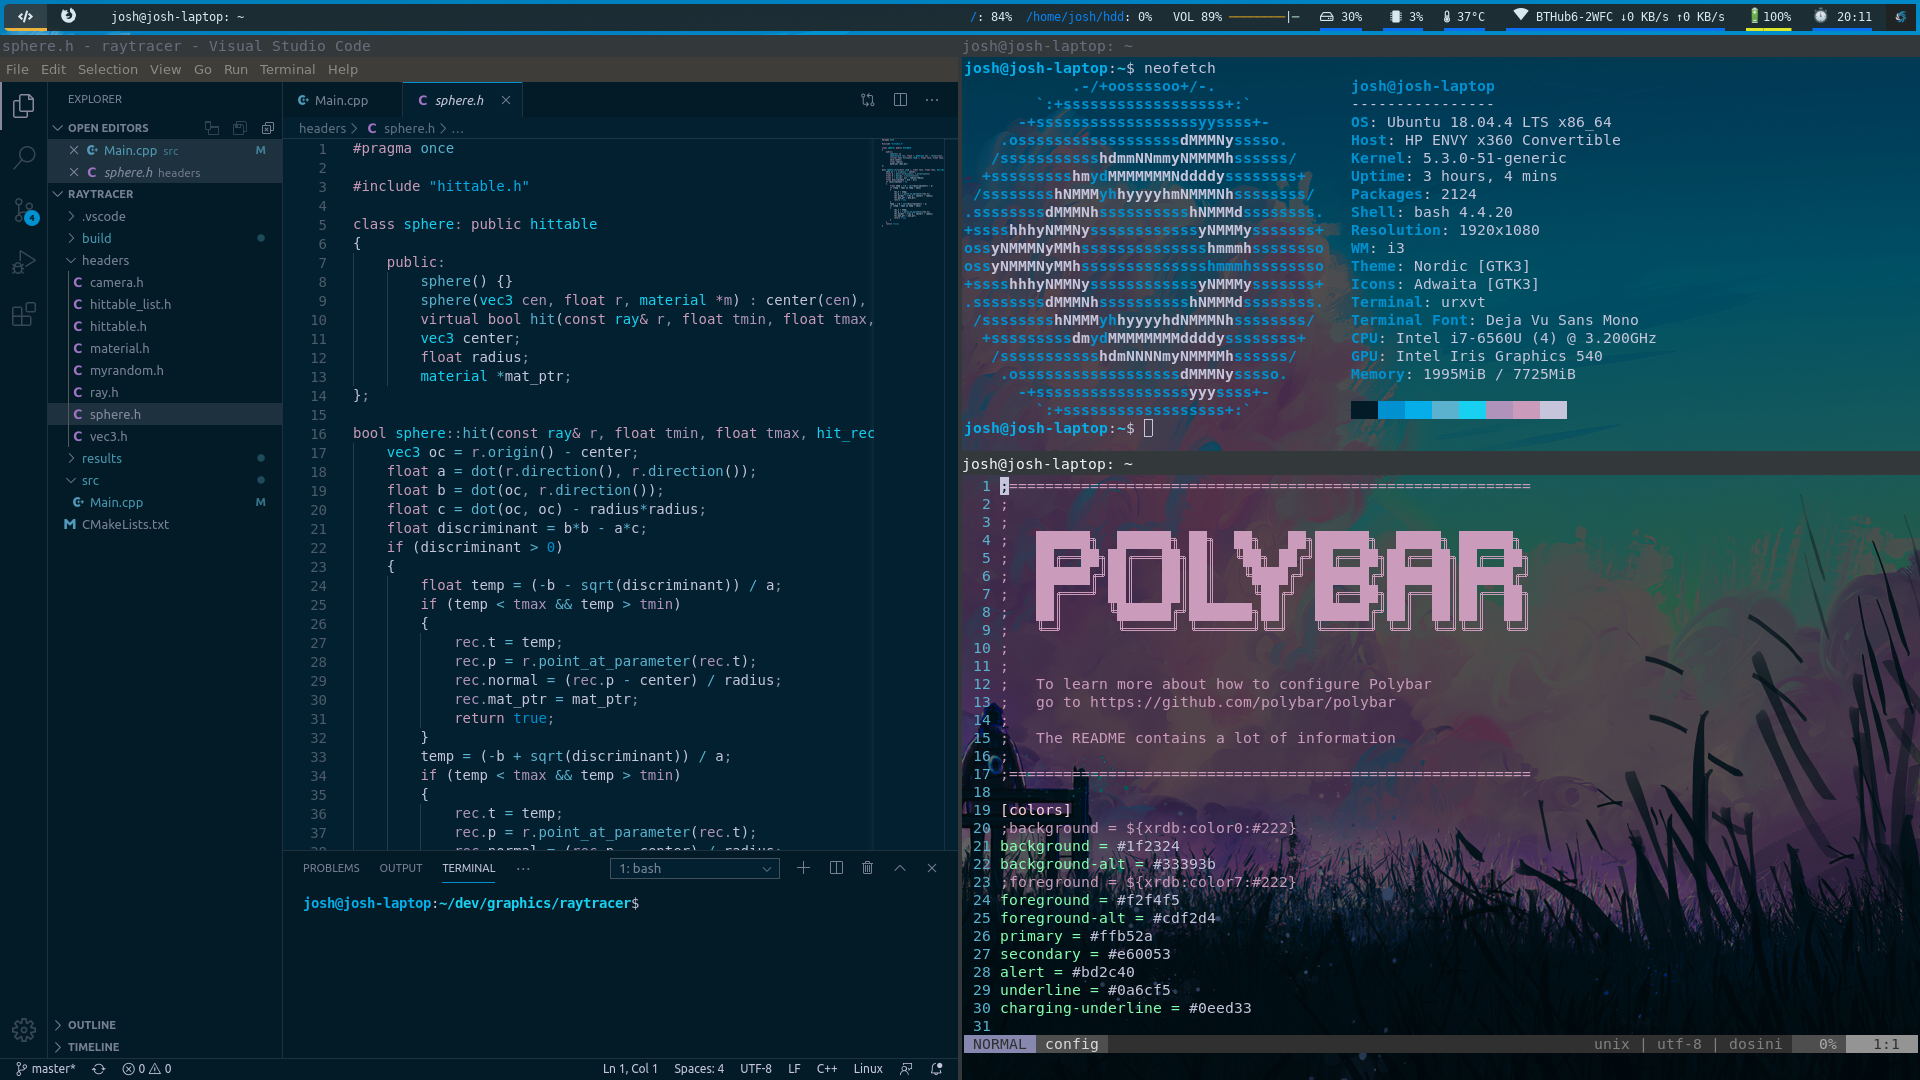
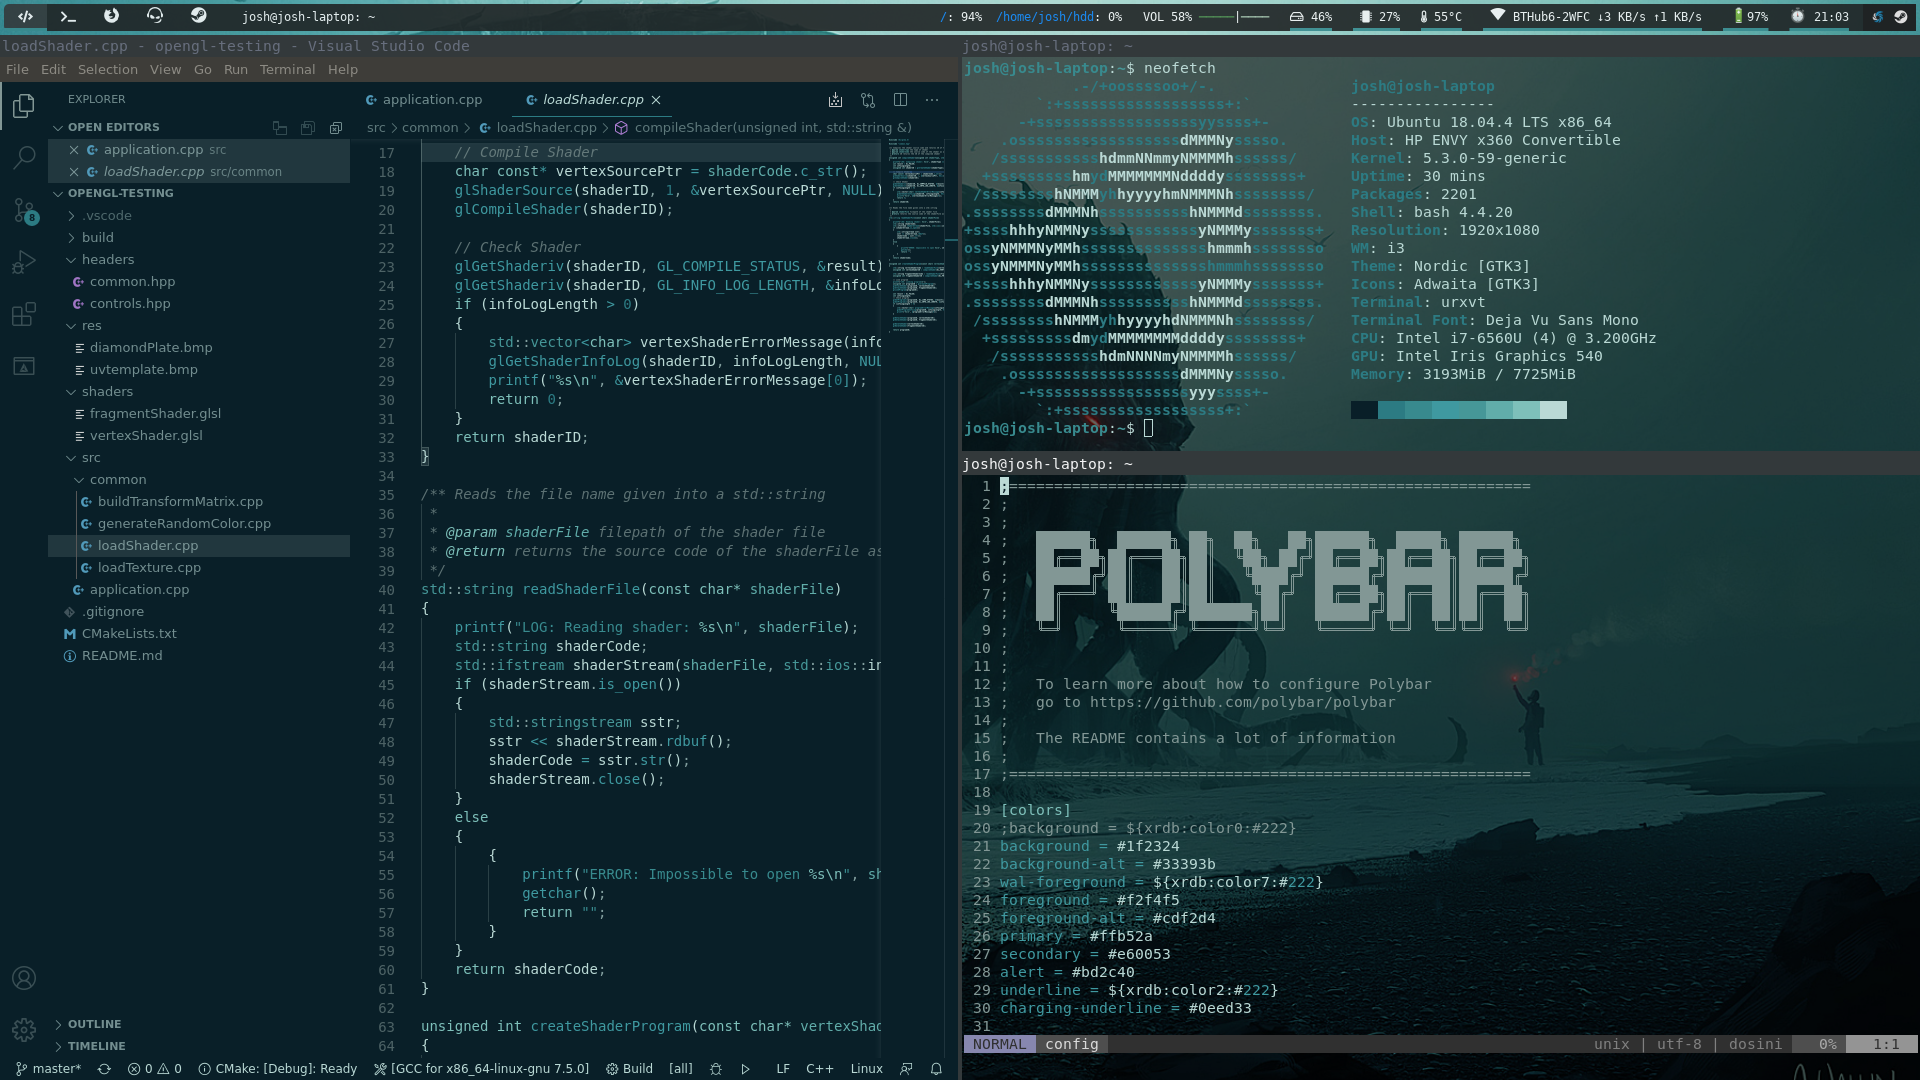
updated screenshot

diff --git a/README.md b/README.md
@@ -13,7 +13,8 @@ And I use Dotdrop to manage these dotfiles.
 ![Screenshot](/dotfiles/config/images/scrot.png)
 
 ## Current Wallpaper
-![Screenshot](/dotfiles/config/images/colours.jpg)
+![Screenshot](/dotfiles/config/images/cthulu-wallpaper.png)
+Credit: ![Andree Wallin][https://andreewallin.com/]
 
 ## Install
 This is still a work in progress!
